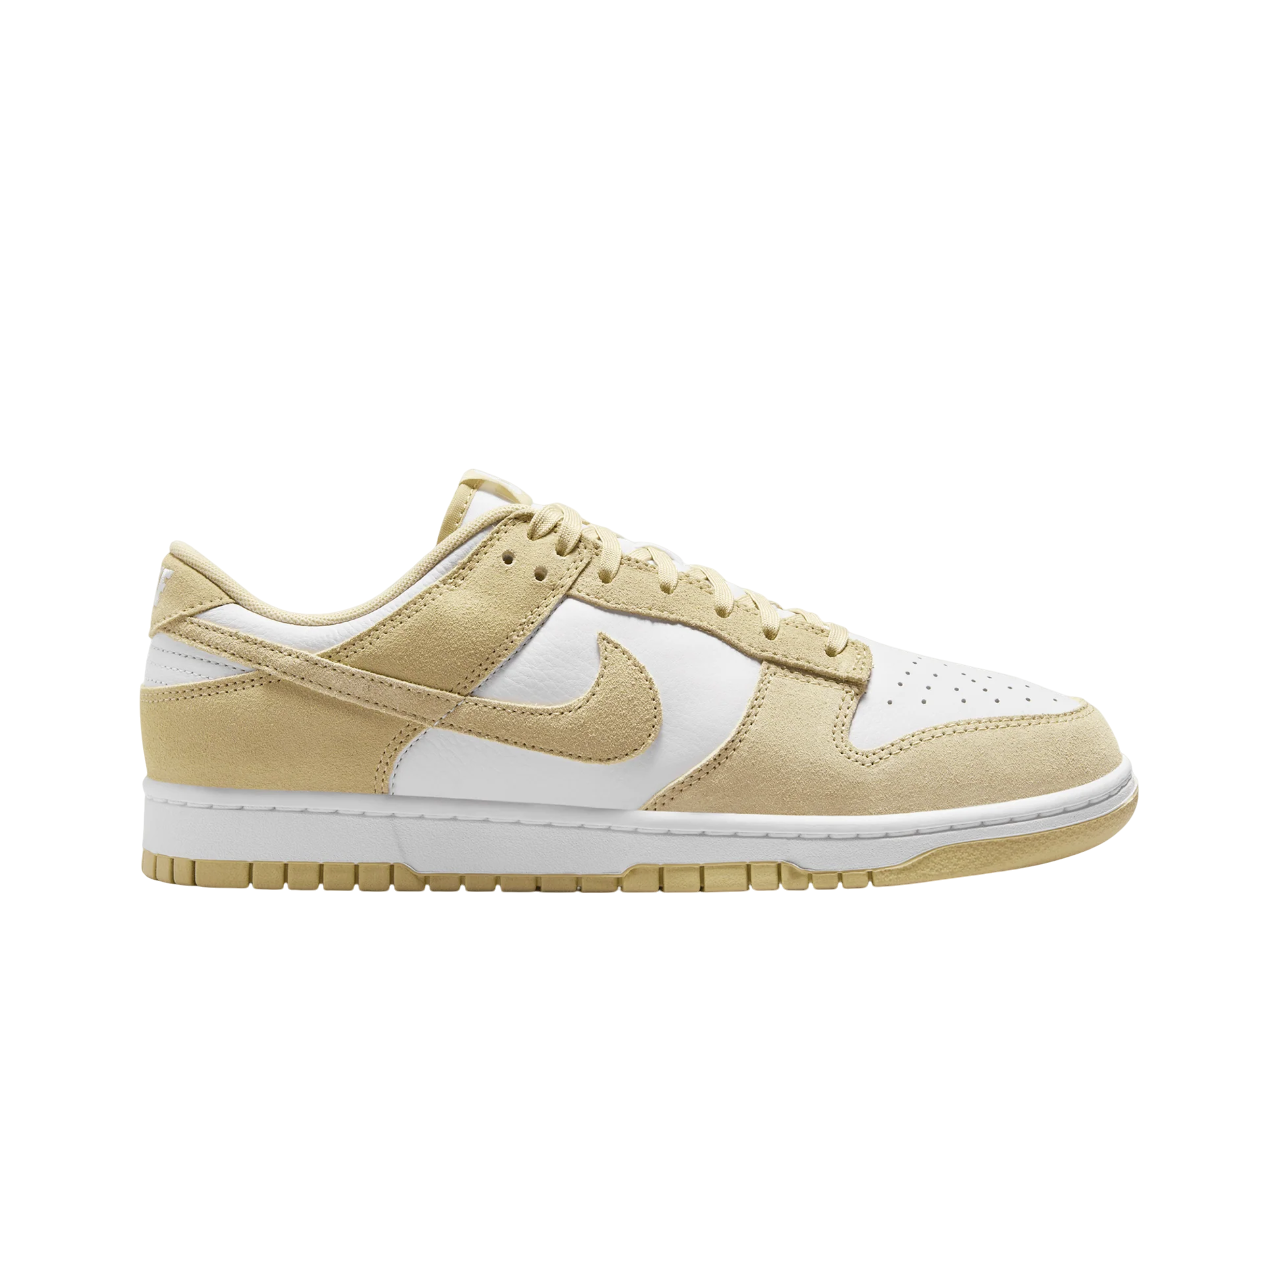
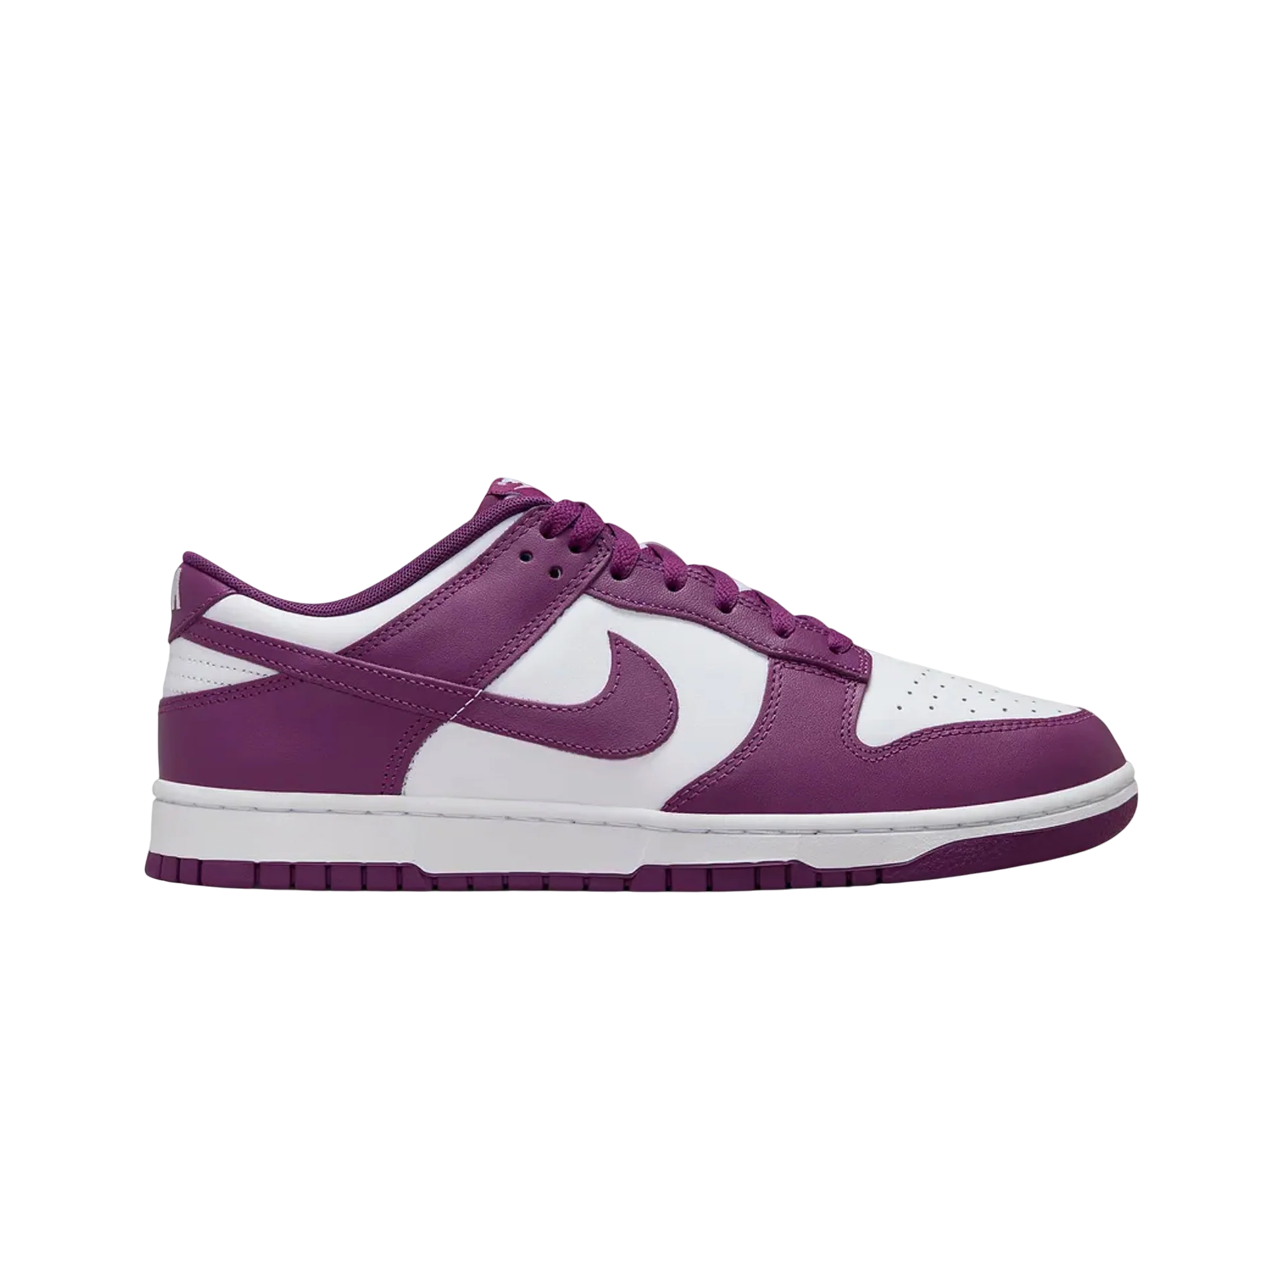
remove a jsx and added a cursor follow animation

Changed region(s): [[0.0938, 0.375, 0.9062, 0.7188]]

diff --git a/src/components/Cursorfollow.jsx b/src/components/Cursorfollow.jsx
@@ -1,0 +1,152 @@
+import React, { useEffect, useRef, useState } from "react";
+import { motion, AnimatePresence } from "framer-motion";
+import butterfly from "./images/vutterfly.png";
+
+// Default butterfly image (you can replace this with your own URL or import)
+const DEFAULT_BUTTERFLY =
+  "https://images.unsplash.com/photo-1500048993953-dc5f0f6f6b8a?q=80&w=256&auto=format&fit=crop&ixlib=rb-4.0.3&s=3a2b8f0f2d3f6d5d1b9c6e3b7c8f1a2b";
+
+// Utility: clamp a value between min and max
+const clamp = (v, min, max) => Math.max(min, Math.min(max, v));
+
+// -- Component --
+export default function Cursorfollow({
+  src = butterfly,
+  size = 96, // px width & height of the butterfly
+  followSpring = { stiffness: 200, damping: 25 },
+  floatAmplitude = 8, // px vertical floating amplitude
+  floatSpeed = 2, // cycles per second
+  visible = true,
+}) {
+  const [mouse, setMouse] = useState({ x: window.innerWidth / 2, y: window.innerHeight / 2 });
+  const [viewport, setViewport] = useState({ w: window.innerWidth, h: window.innerHeight });
+  const imgRef = useRef(null);
+  const rafRef = useRef(null);
+
+  // Track mouse position
+  useEffect(() => {
+    function onMove(e) {
+      setMouse({ x: e.clientX, y: e.clientY });
+    }
+    window.addEventListener("mousemove", onMove);
+    return () => window.removeEventListener("mousemove", onMove);
+  }, []);
+
+  // Keep track of viewport size (for clamp)
+  useEffect(() => {
+    function onResize() {
+      setViewport({ w: window.innerWidth, h: window.innerHeight });
+    }
+    window.addEventListener("resize", onResize);
+    return () => window.removeEventListener("resize", onResize);
+  }, []);
+
+  // Measured size of the image (fallback to `size` prop)
+  const measured = {
+    w: imgRef.current?.naturalWidth ? (imgRef.current.naturalWidth / imgRef.current.naturalHeight) * size : size,
+    h: imgRef.current?.naturalHeight ? size : size,
+  };
+
+  // Compute target position and keep inside viewport
+  const target = {
+    x: clamp(mouse.x - measured.w / 2, 8, Math.max(8, viewport.w - measured.w - 8)),
+    y: clamp(mouse.y - measured.h / 2, 8, Math.max(8, viewport.h - measured.h - 8)),
+  };
+
+  // Float animation: produce a small vertical offset that oscillates with time
+  // We generate a value in render using time from RAF so that float feels organic
+  const [floatOffset, setFloatOffset] = useState(0);
+  useEffect(() => {
+    let start = performance.now();
+    function tick(now) {
+      const t = (now - start) / 1000; // seconds
+      // simple sinusoidal float
+      const offset = Math.sin(t * Math.PI * 2 * floatSpeed) * floatAmplitude;
+      setFloatOffset(offset);
+      rafRef.current = requestAnimationFrame(tick);
+    }
+    rafRef.current = requestAnimationFrame(tick);
+    return () => cancelAnimationFrame(rafRef.current);
+  }, [floatAmplitude, floatSpeed]);
+
+  // Determine rotation so butterfly faces cursor direction slightly
+  // We'll compute angle between current position (approximated by target) and previous position
+  const previous = useRef(target);
+  const [angle, setAngle] = useState(0);
+  useEffect(() => {
+    const dx = target.x - previous.current.x;
+    const dy = target.y - previous.current.y;
+    const newAngle = Math.atan2(dy, dx) * (180 / Math.PI);
+    // small smoothing to avoid jitter
+    setAngle((a) => a * 0.85 + newAngle * 0.15);
+    previous.current = target;
+    // eslint-disable-next-line react-hooks/exhaustive-deps
+  }, [target.x, target.y]);
+
+  // framer-motion variants
+  const variants = {
+    idle: { opacity: 1, scale: 1 },
+    hidden: { opacity: 0, scale: 0.9 },
+  };
+
+  return (
+    <AnimatePresence>
+      {visible && (
+        <motion.div
+          initial="hidden"
+          animate={"idle"}
+          exit="hidden"
+          variants={variants}
+          style={{
+            position: "fixed",
+            top: 0,
+            left: 0,
+            pointerEvents: "none",
+            zIndex: 9999,
+            willChange: "transform",
+          }}
+        >
+          {/* The motion wrapper moves to the target x,y using a spring for natural following */}
+          <motion.div
+            animate={{ x: target.x, y: target.y + floatOffset, rotate: angle }}
+            transition={{ type: "spring", ...followSpring }}
+            style={{ width: size, height: size }}
+          >
+            {/* Butterfly image with gentle wing-flap using CSS animation */}
+            <img
+              ref={imgRef}
+              src={src}
+              alt="butterfly"
+              draggable={false}
+              style={{
+                width: "100%",
+                height: "100%",
+                display: "block",
+                transformOrigin: "50% 50%",
+                userSelect: "none",
+                // a little drop shadow so it feels above the page
+                filter: "drop-shadow(0 6px 10px rgba(0,0,0,0.2))",
+                // CSS animation name is defined below through a small inline <style>
+              }}
+              className="butterfly-flap"
+            />
+          </motion.div>
+
+          {/* Inline CSS for wing flap animation - small and configurable */}
+          <style>{`
+            .butterfly-flap {
+              animation: flap 0.9s ease-in-out infinite;
+            }
+            @keyframes flap {
+              0% { transform: translateY(0) rotate(0deg) scale(1); }
+              25% { transform: translateY(-2px) rotate(-1deg) scale(1.01); }
+              50% { transform: translateY(0) rotate(0deg) scale(1); }
+              75% { transform: translateY(2px) rotate(1deg) scale(0.99); }
+              100% { transform: translateY(0) rotate(0deg) scale(1); }
+            }
+          `}</style>
+        </motion.div>
+      )}
+    </AnimatePresence>
+  );
+}

diff --git a/src/components/Shoe1.jsx b/src/components/Shoe1.jsx
@@ -7,12 +7,12 @@ import shoe4 from "./images/shoe4-photoroom.png";
 import shoe5 from "./images/shoe5-photoroom.png";
 const shoeimg = [shoe1, shoe2, shoe3, shoe4, shoe5];
 const coloring = [
-  "#223440",
-  "#004938ff",
-  "#aea286ff",
-  "#e28f55",
-  "#717477ff",
-  "#a90e2b",
+  "#446a84ff",
+  "#008566ff",
+  "#ac5192ff",
+  "#036d9aff",
+  "#9fa2a6ff",
+  "#df153aff",
 ];
 import { useEffect, useState } from "react";
 import { i } from "framer-motion/client";
@@ -29,47 +29,52 @@ const Shoe1 = () => {
 
   return (
     <>
-      <div className="flex h-180 w-full bg-black">
+      <div className="flex h-185 w-full bg-black">
         <motion.div
-          className="h-180 w-1/5 bg-[#EDEDED]"
+          className="h-185 w-1/5 bg-[#EDEDED]"
           initial={{ x: -300, opacity: 0.2 }}
           whileInView={{ x: 0, opacity: 0.9 }}
+          viewport={{once:true}}
           transition={{ duration: 1, delay: 0.2, type: "spring" }}
         ></motion.div>
         <motion.div
-          className="h-180 w-1/5"
+          className="h-185 w-1/5"
           style={{ backgroundColor: coloring[index] }}
           initial={{ x: -600, opacity: 0.2 }}
           whileInView={{ x: 0, opacity: 0.9 }}
+            viewport={{once:true}}
           transition={{ duration: 1.0, delay: 0.3, type: "spring" }}
         ></motion.div>
         <motion.div
-          className=" h-180 w-1/5 bg-[#EDEDED]"
+          className=" h-185 w-1/5 bg-[#EDEDED]"
           initial={{ x: -900, opacity: 0.2 }}
           whileInView={{ x: 0, opacity: 0.9 }}
+            viewport={{once:true}}
           transition={{ duration: 1.0, delay: 0.4, type: "spring" }}
         ></motion.div>
         <motion.div
-          className="h-180 w-1/5"
+          className="h-185 w-1/5"
           style={{ backgroundColor: coloring[index] }}
           initial={{ x: -1200, opacity: 0.2 }}
           whileInView={{ x: 0, opacity: 0.9 }}
+            viewport={{once:true}}
           transition={{ duration: 1, delay: 0.5, type: "spring" }}
         ></motion.div>
         <motion.div
-          className=" h-180 w-1/5 bg-[#EDEDED]"
+          className=" h-185 w-1/5 bg-[#EDEDED]"
           initial={{ x: -1500, opacity: 0.2 }}
           whileInView={{ x: 0, opacity: 0.9 }}
+            viewport={{once:true}}
           transition={{ duration: 1, delay: 0.6, type: "spring" }}
         ></motion.div>
-        <div className="absolute left-127 top-20 h-130 w-130 bg-transparent">
+        <div className="absolute flex items-center justify-center left-127 top-20 h-130 w-130 bg-transparent">
           <motion.img
-            className="relative   drop-shadow-[0_40px_60px_rgba(0,0,0,1.0)]"
+            className="relativeax-w-full max-h-full object-contain drop-shadow-[0_40px_60px_rgba(0,0,0,1.0)]"
             src={shoeimg[index]}
             alt=""
             initial={{ opacity: 0 }}
             whileInView={{ opacity: 1 }}
-            transition={{ duration: 0.5, delay: 1.25 }}
+            transition={{ duration: 1, delay: 1.25 }}
           />
         </div>
         ;

diff --git a/src/components/frontpage.jsx b/src/components/frontpage.jsx
@@ -2,7 +2,7 @@ import React, { useEffect, useRef, useState } from "react";
 import { motion } from "framer-motion";
 import List from "./List";
 import Shoe1 from "./Shoe1";
-
+import Cursorfollow from "./Cursorfollow";
 const Frontpage = () => {
   const [show, setShow] = useState(false);
   const first = useRef(2);
@@ -15,6 +15,7 @@ const Frontpage = () => {
 
   return (
     <div className="h-screen max-w-full bg-green-900 ">
+           <Cursorfollow />
       <div className="relative bg-gradient-to-b from-green-900 via-[#8BE627] to-green-900 w-full h-180  top-10 overflow ">
         {/* Shoe image */}
         <img
@@ -52,11 +53,11 @@ const Frontpage = () => {
 
 
       {/* shoe display */}
-      <div className="relative h-180  w-full bg-black">
+      <div className="relative h-185  w-full bg-black">
         <div className="relative"><Shoe1 /></div>
         
       </div>
-
+    
 
 
       <div className="relative h-900 w-full bg-gradient-to-b from-green-900 via-black to-green-900 ">
